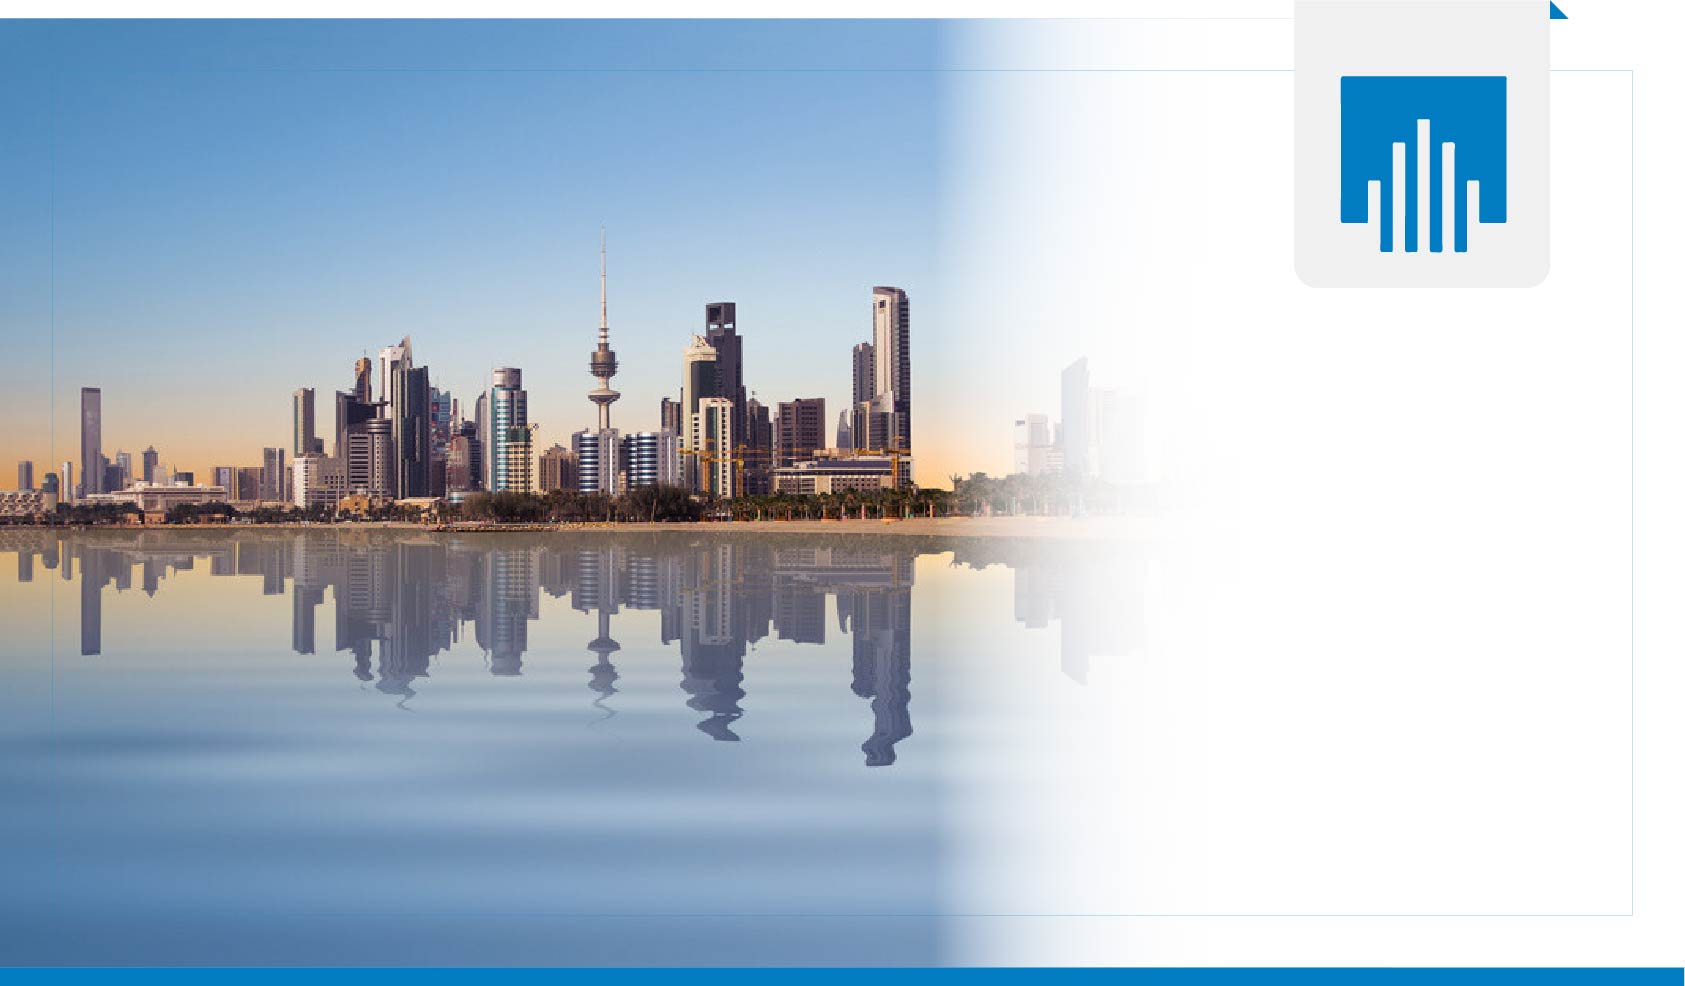
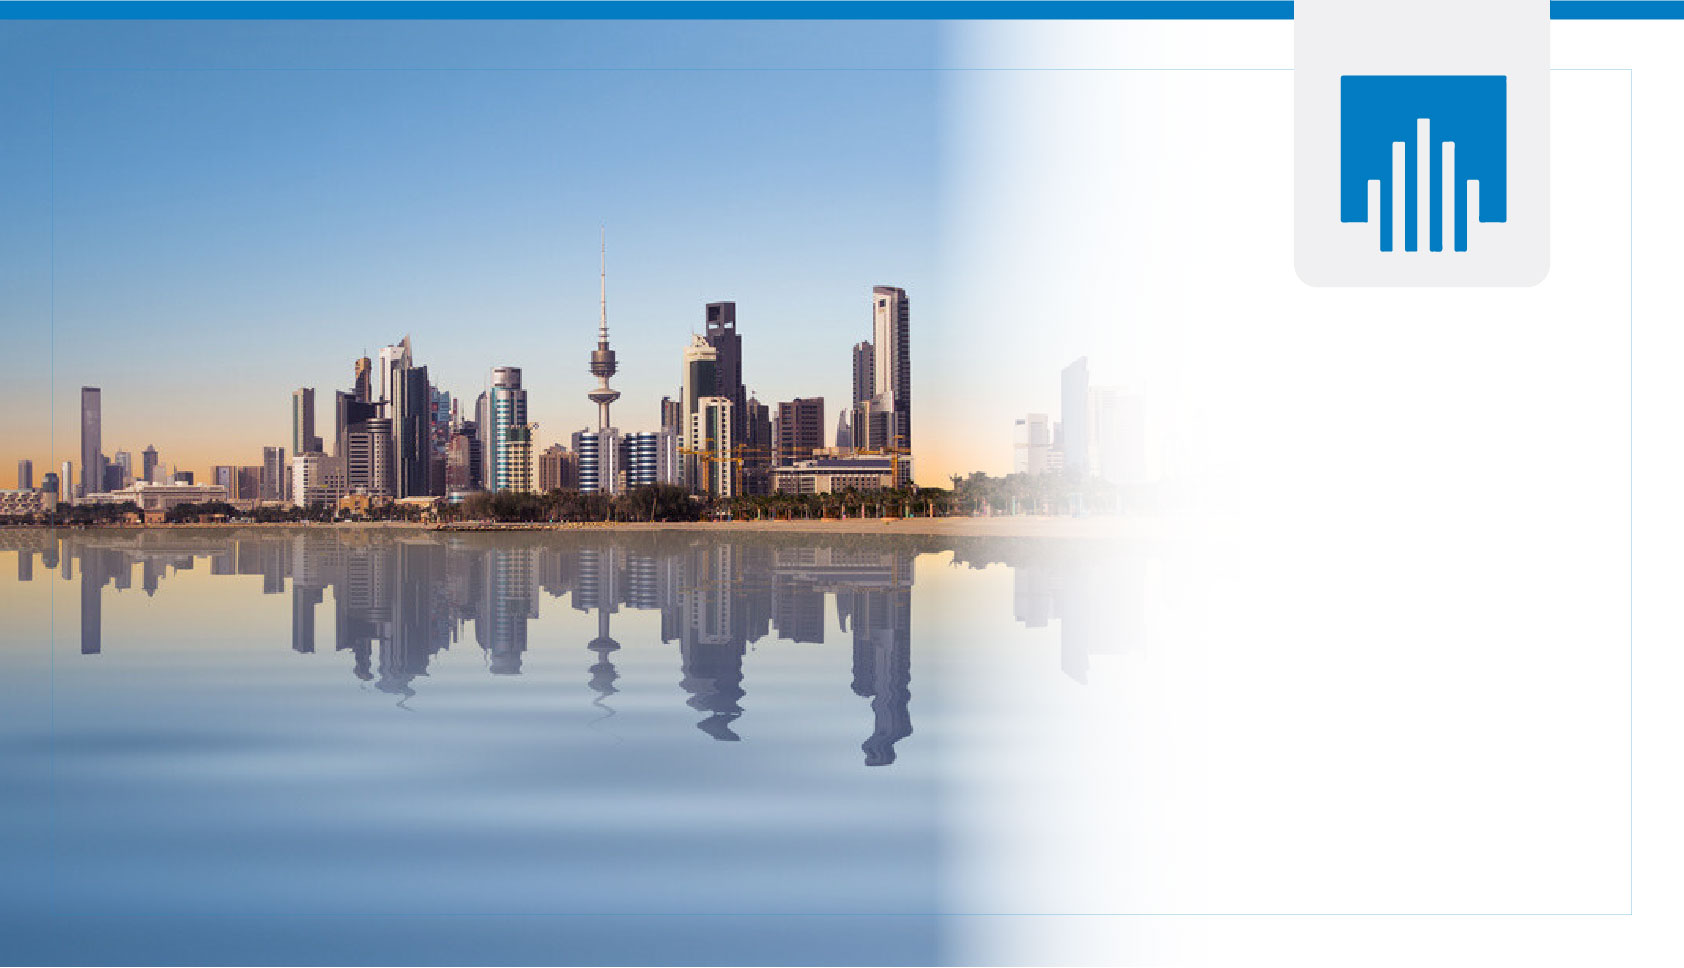
upd

diff --git a/index.html b/index.html
@@ -15,7 +15,7 @@
         <!-- start header -->
         <header>
             <div class="container-fluid">
-                <div class="row">
+                <div class="row mb-1">
                     <div class="col-12 text-end">
                         <div class="langs">
                             <span class="border-right pe-2">ENG</span>
@@ -176,12 +176,16 @@
             </div>
         </div>
 
+        <div class="container">
+            <h2 class="banner_title text-center" style="margin: 30px auto;">
+                Benchmarking and supporting government and business entities to reach the highest international standards</h2>
+        </div> 
 
         <div class="banner-1 banner">
             <div class="over">
                 <div class="container">
                     <div class="row">
-                        <div class="col-md-4 col-11 text-left">
+                        <div class="col-md-5 col-11 text-left">
                             <div class="banner-text">
                                 <h3>
                                     REAL ESTATE <br>
@@ -194,7 +198,7 @@
                                 </p>
                             </div>
                         </div>
-                        <div class="col-md-8 col-1"></div>
+                        <div class="col-md-7 col-1"></div>
                     </div>
                 </div>
             </div>
@@ -215,8 +219,8 @@
             <div class="over">
                 <div class="container">
                     <div class="row">
-                        <div class="col-md-8 col-1"></div>
-                        <div class="col-md-4 col-11 text-end">
+                        <div class="col-md-7 col-1"></div>
+                        <div class="col-md-5 col-11 text-end">
                             <div class="banner-text">
                                 <h3>
                                     BEST QUALITY <br>
@@ -238,7 +242,7 @@
             <div class="over">
                 <div class="container">
                     <div class="row">
-                        <div class="col-md-4 col-11 text-left">
+                        <div class="col-md-5 col-11 text-left">
                             <div class="banner-text">
                                 <h3>
                                     INNOVATING <br>
@@ -252,7 +256,7 @@
                                 </p>
                             </div>
                         </div>
-                        <div class="col-md-8 col-1"></div>
+                        <div class="col-md-7 col-1"></div>
                     </div>
                 </div>
             </div>
@@ -262,12 +266,12 @@
             <div class="over">
                 <div class="container">
                     <div class="row">
-                        <div class="col-md-8 col-1"></div>
-                        <div class="col-md-4 col-11 text-end">
+                        <div class="col-md-7 col-1"></div>
+                        <div class="col-md-5 col-11 text-end">
                             <div class="banner-text">
                                 <h3>
-                                    REALIZE YOUR<br>
-                                    PROPERTY <br>
+                                    REALIZE<br>
+                                    YOUR PROPERTY <br>
                                     DREAMS
                                 </h3>
                                 <p>
@@ -285,7 +289,7 @@
             <div class="over">
                 <div class="container">
                     <div class="row">
-                        <div class="col-md-4 col-11 text-left">
+                        <div class="col-md-5 col-11 text-left">
                             <div class="banner-text">
                                 <h3>
                                     RAISING <br>
@@ -298,7 +302,7 @@
                                 </p>
                             </div>
                         </div>
-                        <div class="col-md-8 col-1"></div>
+                        <div class="col-md-7 col-1"></div>
                     </div>
                 </div>
             </div>
@@ -502,23 +506,12 @@
                         </div>
                     </div>
                 </div>
-                <!-- <div class="row mt-3">
-                    <div class="col-12">
-                        <p class="text-center footr">
-                            The Institute sends its latest email newsletter each week, 
-                            it's updated with the latest events calendar and other excellence governance information 
-                            and the excellent development job postings from across the globe, 
-                            new excellence related books and more, emails are designed to keep you updated 
-                            on the Institute’s events and information that affect the excellence development.
-                        </p>
-                    </div>
-                </div> -->
             </div>
             <div class="copy-right">
                 <div class="container">
                     <div class="row">
                         <div class="col-12">
-                            <p> &COPY; Copyright Datamatix All Right Reserved </p>
+                            <p>2023 &COPY; Copyright Datamatix All Right Reserved </p>
                         </div>
                     </div>
                 </div>
@@ -528,8 +521,5 @@
        
     </div>
 
-
-    <!-- <script src="https://cdn.jsdelivr.net/npm/@popperjs/core@2.11.8/dist/umd/popper.min.js" crossorigin="anonymous"></script>
-    <script src="https://cdn.jsdelivr.net/npm/bootstrap@5.3.2/dist/js/bootstrap.min.js" crossorigin="anonymous"></script> -->
-</body>
+    </body>
 </html>

diff --git a/assets/css/style.css b/assets/css/style.css
@@ -25,19 +25,19 @@ ul{
 /* start header */
 header{
     position: relative;
-    /* margin-bottom: 35px; */
-    padding-bottom: 35px;
+    margin-bottom: 20px;
+    /* padding-bottom: 35px; */
     /* border-bottom: 5px solid #027cc2; */
 }
 header .nav1{
-    margin-top: 25px;
-    margin-bottom: 25px;
     background-color: #027cc2;
-    padding: 25px 0;
+    padding: 0 20px;
     display: flex;
     justify-content: center;
+    align-items: center;
     position: absolute;
     width: 74%;
+    min-height: 90px;
 }
 
 /* header .nav1 ul li:first-of-type{
@@ -174,7 +174,7 @@ header .nav2 ul li{
     width: 100%;
 }
 .banner{
-    border-bottom: 10px solid #027cc2;
+    /* border-bottom: 10px solid #027cc2; */
     width: 100%;
     height: 580px;
     background-size: cover;
@@ -183,6 +183,7 @@ header .nav2 ul li{
 }
 .banner-1{
     background-image: url(./../img/10th_banner_6.jpg);
+    border-bottom: 10px solid #027cc2;
     margin-bottom: 30px;
 }
 .banner-2{
@@ -191,6 +192,7 @@ header .nav2 ul li{
 }
 .banner-3{
     background-image: url(./../img/10th_banner_3.jpg);
+    /* border-top: 10px solid #027cc2; */
 }
 .banner-4{
     background-image: url(./../img/10th_banner_4.jpg);
@@ -211,7 +213,7 @@ header .nav2 ul li{
     font-family: bruumBoldFont;
     font-size: 45px;
     line-height: 50px;
-    margin-top: 66%;
+    margin-top: 55%;
 }
 .banner .banner-text hr{
     border-top: 2px solid #027cc2;
@@ -334,11 +336,11 @@ footer form .btn{
 }
 
 @media only screen and (max-width: 1059px) {
-    header .nav1{
+    /* header .nav1{
         margin-top: 0;
         margin-bottom: 0;
         padding: 25px;
-    }
+    } */
     header .nav1 ul li {
         font-size: 12px;
     }
@@ -350,6 +352,12 @@ footer form .btn{
 }
 @media only screen and (max-width: 1109px) {
     .counter-top .btns {
+        width: 100%;
+    }
+}
+@media only screen and (max-width: 1086px) {
+    header .nav1{
+        position: relative;
         width: 100%;
     }
 }
